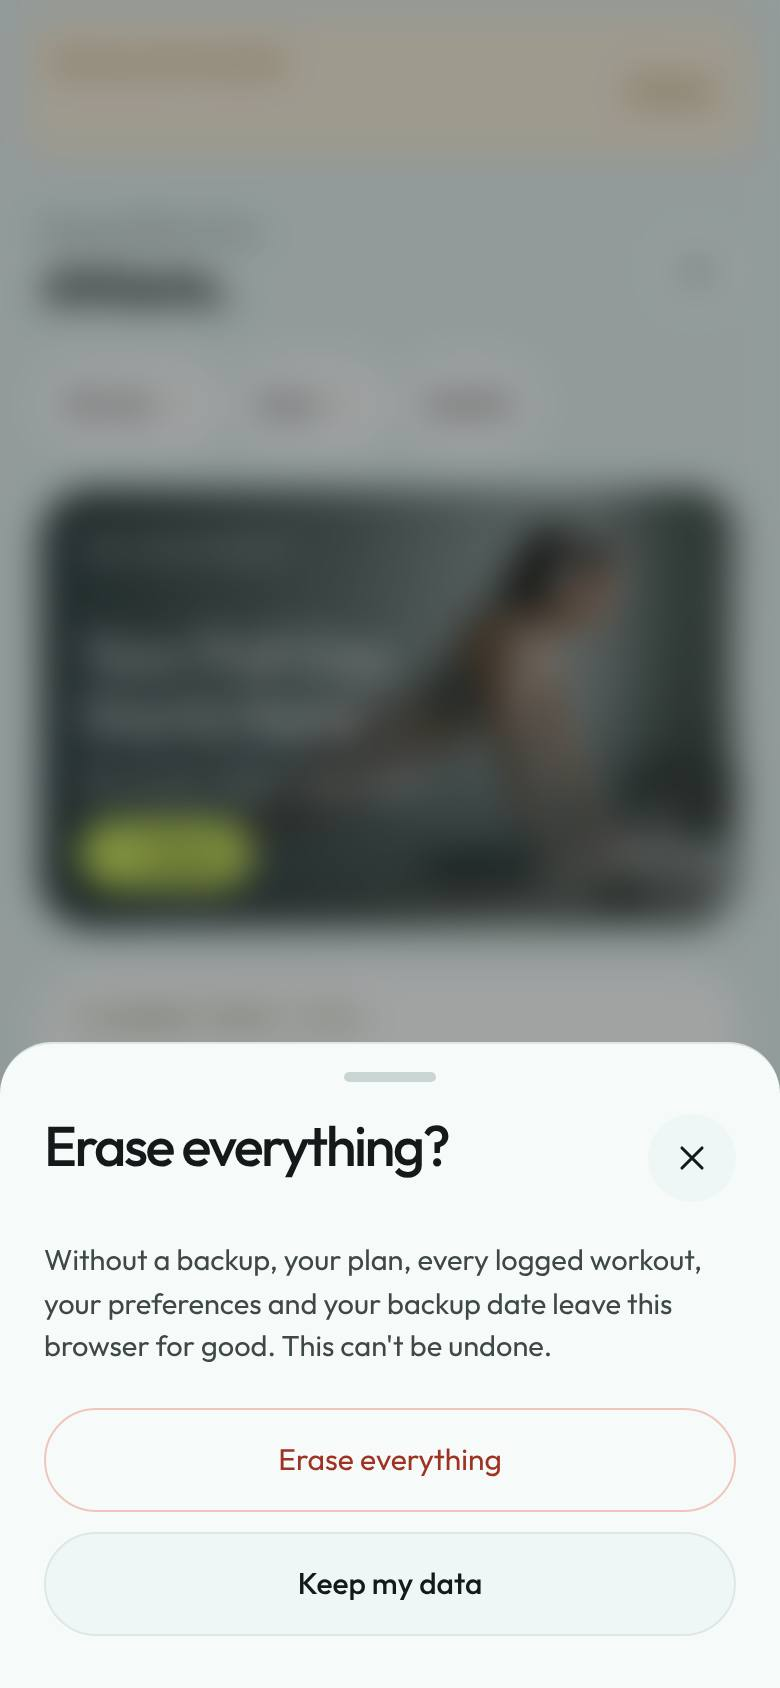
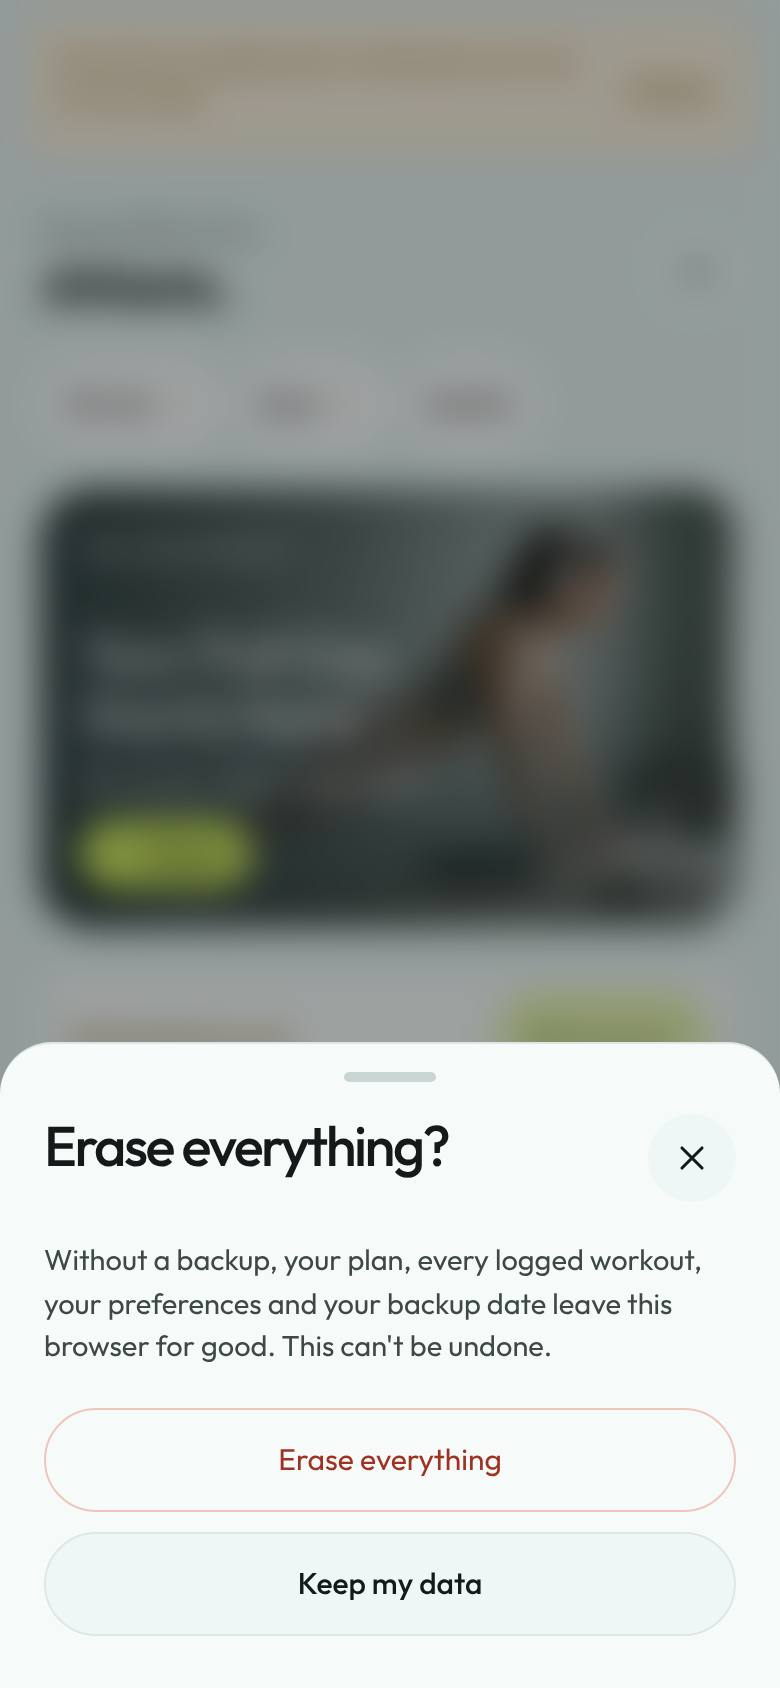
fix: guard start over against an open workout; drop "without a backup" after one (#263)
The open-session block lived only in the sheet. startOverErase now
refuses with the sheet's own message while state.current is set, before
any key is touched, and App goes through it.

After Back up now succeeds in the sheet, the erase button reads "Erase
this device" and the confirm drops "Without a backup". backupNow
returns whether a file left the app. Screenshots refreshed, plus the
after-backup sheet and confirm.

Claude-Session: https://claude.ai/code/session_01LzbJhBTy2WSPNAhmn6bBfG

Changed region(s): [[0.6154, 0.5853, 0.9231, 0.6161]]

diff --git a/src/screens/Sheets.tsx b/src/screens/Sheets.tsx
@@ -31,7 +31,7 @@ import Demo from '../components/ui/Demo';
 import Icon from '../components/ui/Icon';
 import { CheckIcon, LockIcon, PhoneIcon } from '../components/ui/Icons';
 import { currentDevice, installHint } from '../lib/install';
-import type { EraseResult } from '../lib/storage';
+import { START_OVER_BLOCKED } from '../lib/storage';
 
 /* ---------------- Adjust today ---------------- */
 
@@ -745,15 +745,22 @@ export function StartOverSheet({
 }: {
   sessionOpen: boolean;
   lastBackupAt?: string;
-  /** The #225 backup flow; resolves to the message it showed, if any. */
-  onBackup: () => Promise<string | null>;
+  /** The #225 backup flow; resolves to whether a file left the app and the message it showed, if any. */
+  onBackup: () => Promise<{ ok: boolean; message: string | null }>;
   /** Erase and restart; only a failure comes back, and it is shown here. */
-  onErase: () => EraseResult;
+  onErase: () => { ok: true } | { ok: false; error: string };
   onClose: () => void;
 }) {
   const [confirming, setConfirming] = useState(false);
   const [backupStatus, setBackupStatus] = useState<string | null>(null);
+  // A backup made in this sheet: the erase no longer says "without a backup".
+  const [backedUp, setBackedUp] = useState(false);
   const [error, setError] = useState<string | null>(null);
+  const backup = async () => {
+    const result = await onBackup();
+    setBackupStatus(result.message);
+    if (result.ok) setBackedUp(true);
+  };
   const erase = () => {
     const result = onErase();
     if (!result.ok) setError(result.error);
@@ -763,8 +770,8 @@ export function StartOverSheet({
     return (
       <Sheet key="confirm" title="Erase everything?" onClose={onClose}>
         <p className="sheet-copy">
-          Without a backup, your plan, every logged workout, your preferences and your backup date leave this
-          browser for good. This can't be undone.
+          {backedUp ? 'Your' : 'Without a backup, your'} plan, every logged workout, your preferences and your backup
+          date leave this browser for good. This can't be undone.
         </p>
         {error && <p className="error-text" role="alert">{error}</p>}
         <div className="sheet-actions">
@@ -783,8 +790,8 @@ export function StartOverSheet({
     <Sheet key="choose" title="Start over?" subtitle="On this device" onClose={onClose}>
       <p className="sheet-copy">
         This erases your plan, every logged workout, your preferences, your backup date and any older copies the
-        app kept in this browser, then opens the app as new. A backup file you already saved isn't affected; you can restore it after you set up
-        again.
+        app kept in this browser, then opens the app as new. A backup file you already saved isn't affected; you
+        can restore it after you set up again.
       </p>
       <p className="settings-row__note" role="status" style={{ marginTop: 10 }}>
         {backupStatus ??
@@ -794,16 +801,16 @@ export function StartOverSheet({
       </p>
       {sessionOpen && (
         <p className="note-card" role="note" style={{ marginTop: 12 }}>
-          A workout is in progress. Finish or discard it first, then start over.
+          {START_OVER_BLOCKED}
         </p>
       )}
       <div className="sheet-actions">
-        <button className="primary" onClick={async () => setBackupStatus(await onBackup())}>
+        <button className="primary" onClick={backup}>
           Back up now
         </button>
         {!sessionOpen && (
           <button className="danger" onClick={() => setConfirming(true)}>
-            Erase without a backup
+            {backedUp ? 'Erase this device' : 'Erase without a backup'}
           </button>
         )}
       </div>

diff --git a/tests/startOver263.test.ts b/tests/startOver263.test.ts
@@ -11,7 +11,9 @@ import {
   EMPTY_STATE,
   LEGACY_BACKUP_KEY,
   STORAGE_KEY,
+  START_OVER_BLOCKED,
   eraseLocalData,
+  startOverErase,
   loadState,
   mergeImport,
   saveState,
@@ -86,6 +88,17 @@ test('unreachable storage, a throwing listing and a silent no-op all fail loudly
   assert.equal(eraseLocalData(unlisted).ok, false, 'storage that cannot be listed is not erased');
   const stuck = { ...memoryStore({ [STORAGE_KEY]: 'data' }), removeItem: () => undefined };
   assert.equal(eraseLocalData(stuck).ok, false, 'a removal that did not happen is not a success');
+});
+
+test('an open workout refuses start over before anything is erased, with the sheet message', () => {
+  const store = memoryStore({ [STORAGE_KEY]: 'data', [LEGACY_BACKUP_KEY]: 'old' });
+  const open = { current: trainedState().history[0] };
+  const result = startOverErase(open, store);
+  assert.equal(result.ok, false);
+  if (!result.ok) assert.equal(result.error, START_OVER_BLOCKED);
+  assert.deepEqual([...store.map.keys()].sort(), [STORAGE_KEY, LEGACY_BACKUP_KEY].sort(), 'nothing was touched');
+  assert.deepEqual(startOverErase({ current: null }, store), { ok: true }, 'with no workout open it erases');
+  assert.equal(store.map.size, 0);
 });
 
 /* ---------- round trip: back up, start over, restore ---------- */
@@ -167,7 +180,7 @@ test('the sheet names what goes, spares backup files, and puts Back up now befor
   const { server, mod } = await sheets();
   try {
     const html = renderToStaticMarkup(createElement(mod.StartOverSheet, {
-      sessionOpen: false, onBackup: async () => null, onErase: () => ({ ok: true }), onClose: noop,
+      sessionOpen: false, onBackup: async () => ({ ok: false, message: null }), onErase: () => ({ ok: true }), onClose: noop,
     }));
     const text = plain(html);
     assert.match(text, /your plan, every logged workout, your preferences, your backup date and any older copies/i);
@@ -186,10 +199,9 @@ test('an open workout blocks erasing and says why', async () => {
   const { server, mod } = await sheets();
   try {
     const text = plain(renderToStaticMarkup(createElement(mod.StartOverSheet, {
-      sessionOpen: true, lastBackupAt: '2026-11-02T09:00:00.000Z', onBackup: async () => null, onErase: () => ({ ok: true }), onClose: noop,
+      sessionOpen: true, lastBackupAt: '2026-11-02T09:00:00.000Z', onBackup: async () => ({ ok: false, message: null }), onErase: () => ({ ok: true }), onClose: noop,
     })));
-    assert.match(text, /workout is in progress/i);
-    assert.match(text, /Finish or discard it/);
+    assert.ok(text.includes(START_OVER_BLOCKED), 'the sheet shows the same message the guard returns');
     assert.doesNotMatch(text, /Erase without a backup/);
     assert.match(text, /Last backup: /);
   } finally {

diff --git a/src/App.tsx b/src/App.tsx
@@ -65,7 +65,7 @@ import
 } from './lib/session';import { setWorkoutFeedback } from './lib/feedback';
 import
  { EMPTY_STATE,
-  eraseLocalData,
+  startOverErase,
   STORAGE_KEY,
   exportFilename,
   loadState,
@@ -938,7 +938,7 @@ function AppRun({ initial, onStartOver }: { initial: LoadedState; onStartOver: (
   };
 
   /** (#225) Same file as Export, through the Share sheet; a cancel or failure records nothing. */
-  const backupNow = async (): Promise<string | null> => {
+  const backupNow = async (): Promise<{ ok: boolean; message: string | null }> => {
     const result = await shareBackup(serializeExport(state), exportFilename(), {
       nav: typeof navigator === 'undefined' ? undefined : navigator,
       download: downloadText,
@@ -947,12 +947,12 @@ function AppRun({ initial, onStartOver }: { initial: LoadedState; onStartOver: (
     const message = result.ok ? (result.via === 'share' ? 'Backup shared.' : 'Backup downloaded.') : result.message ?? null;
     if (result.ok) recordBackup();
     if (message) setNotice(message);
-    return message;
+    return { ok: result.ok, message };
   };
 
   /** (#263) Erase this browser's data, then boot as a first launch; a refusal is returned to the sheet. */
   const startOver = () => {
-    const result = eraseLocalData();
+    const result = startOverErase(state);
     if (result.ok) onStartOver();
     return result;
   };

diff --git a/src/lib/storage.ts b/src/lib/storage.ts
@@ -239,6 +239,17 @@ export function eraseLocalData(store: EraseStore | null = storage()): EraseResul
   };
 }
 
+export const START_OVER_BLOCKED = 'A workout is in progress. Finish or discard it first, then start over.';
+
+/** (#263) The one start-over path: an open workout refuses it before any key is touched. */
+export function startOverErase(
+  state: Pick<AppState, 'current'>,
+  store?: EraseStore | null,
+): { ok: true } | { ok: false; error: string } {
+  if (state.current) return { ok: false, error: START_OVER_BLOCKED };
+  return store === undefined ? eraseLocalData() : eraseLocalData(store);
+}
+
 /**
  * Save with an expected revision. A newer stored revision means another tab
  * (or a previous session) wrote data we have not seen; the write is refused
